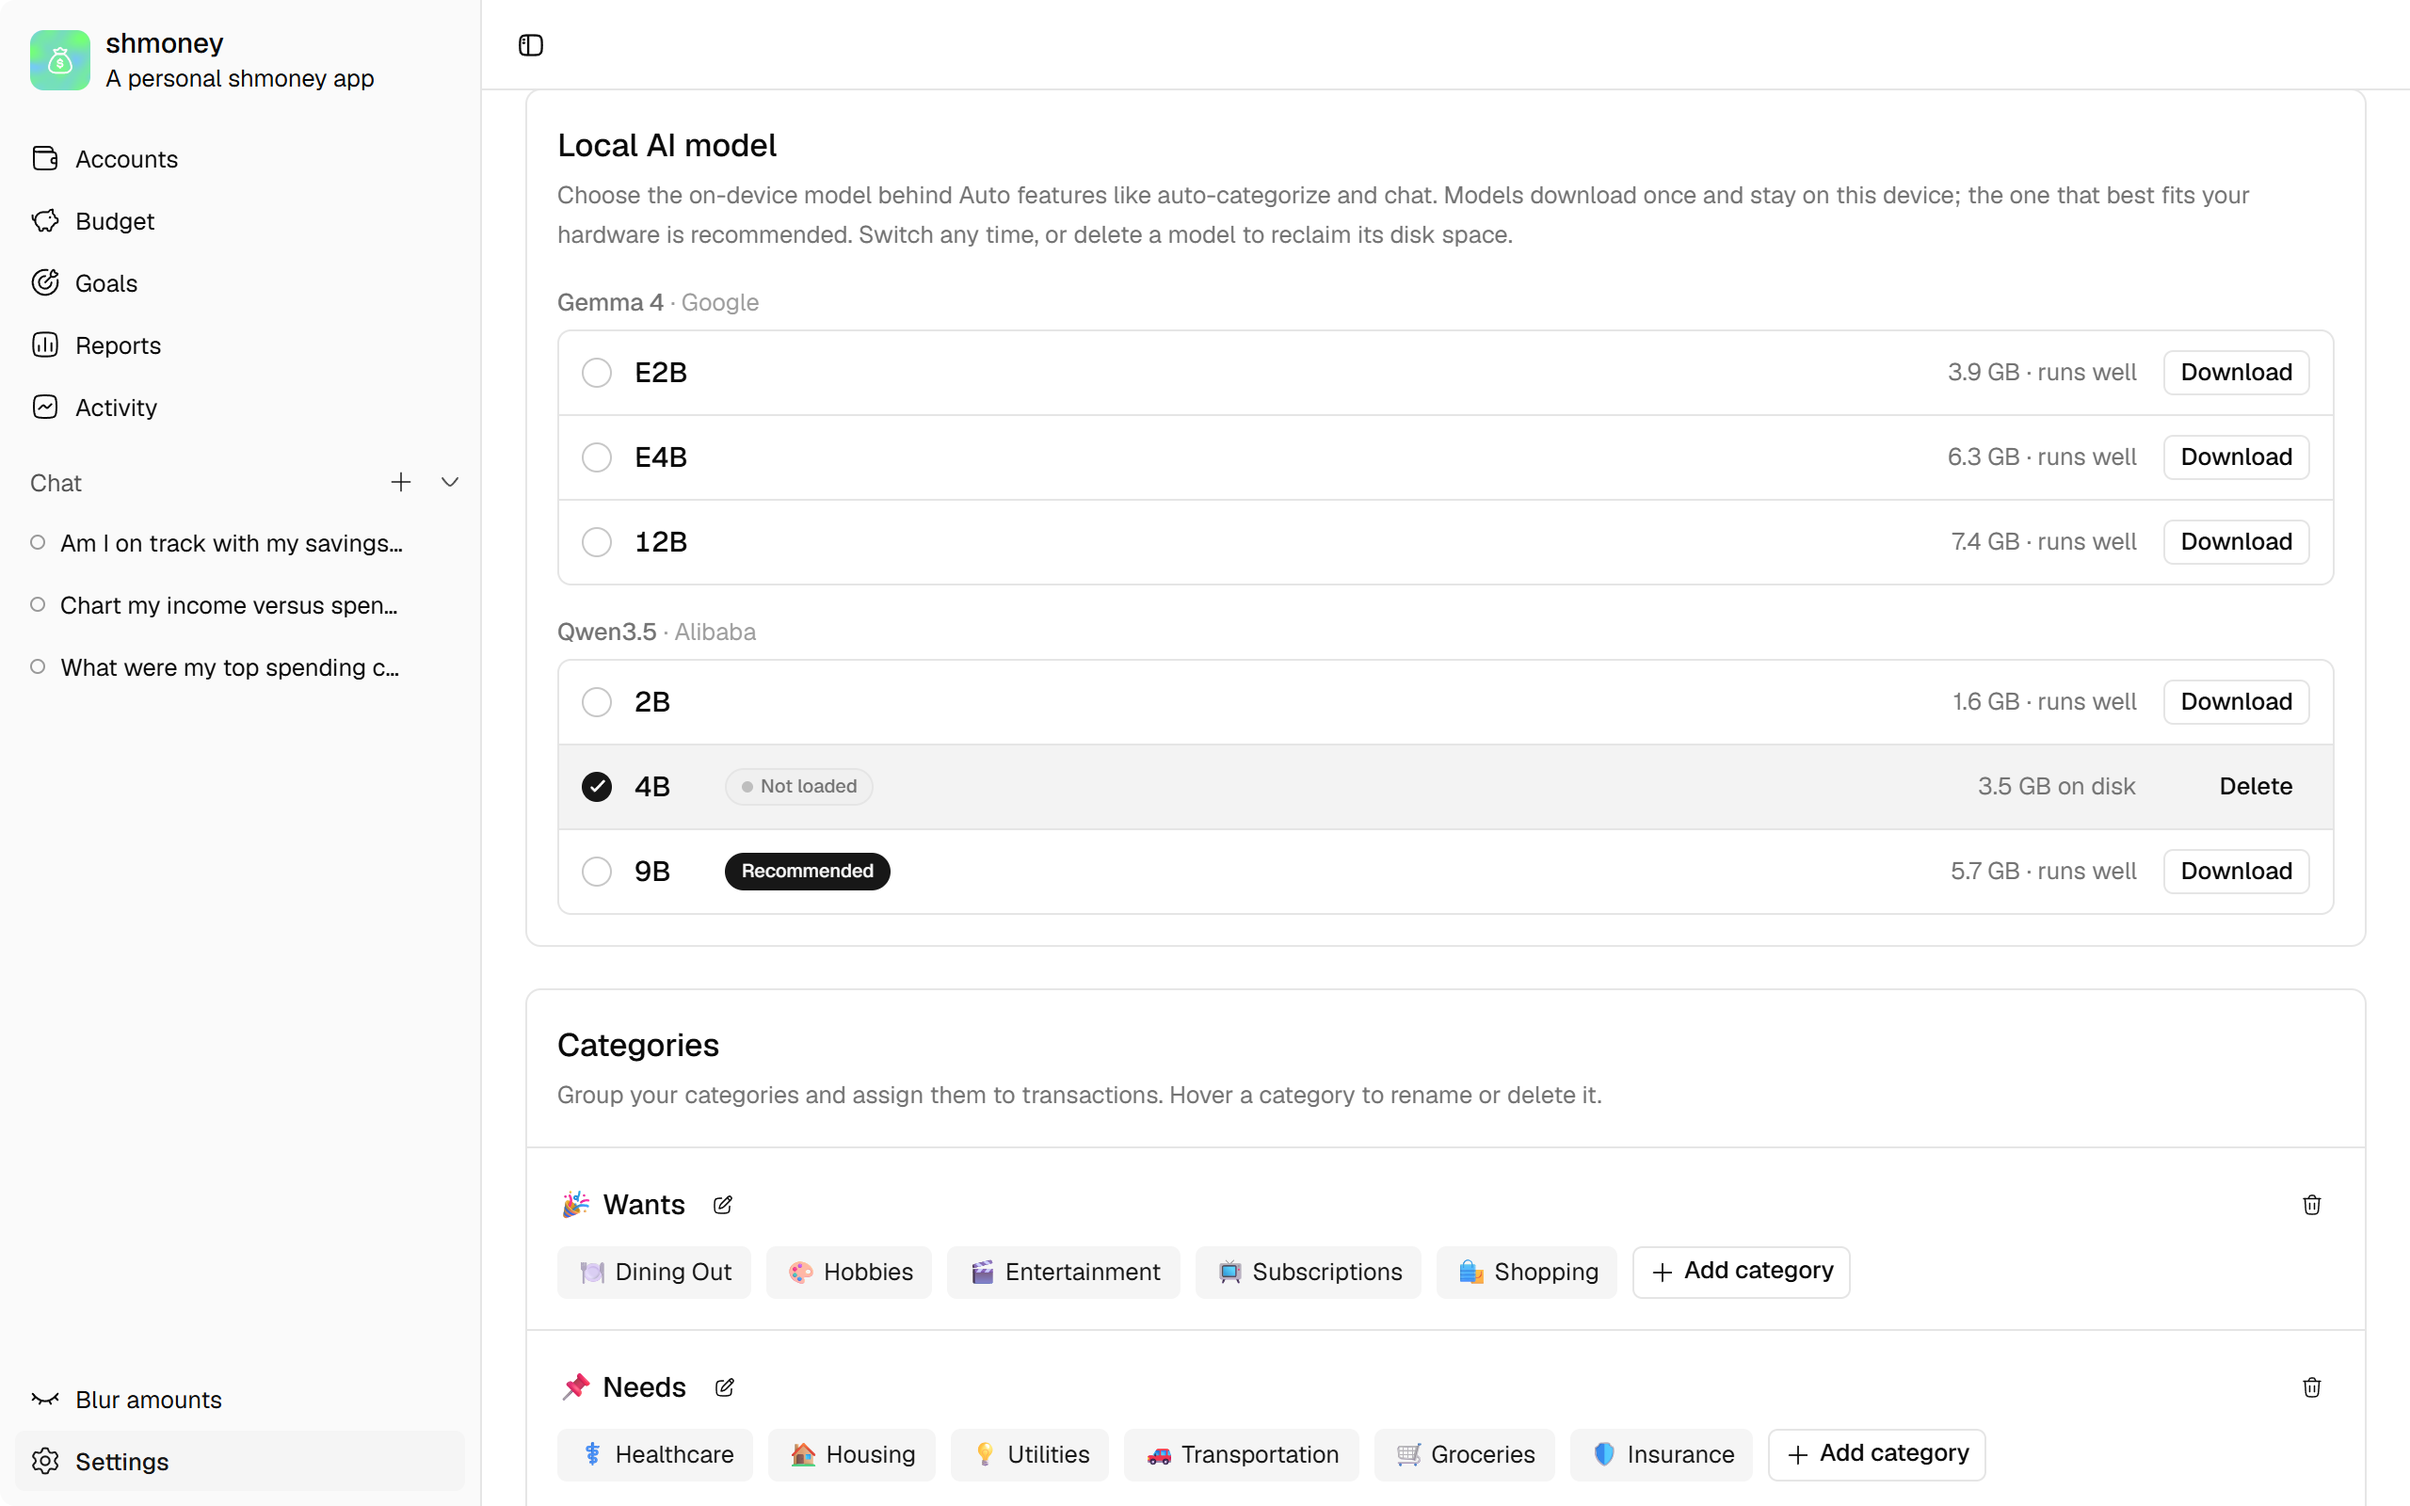
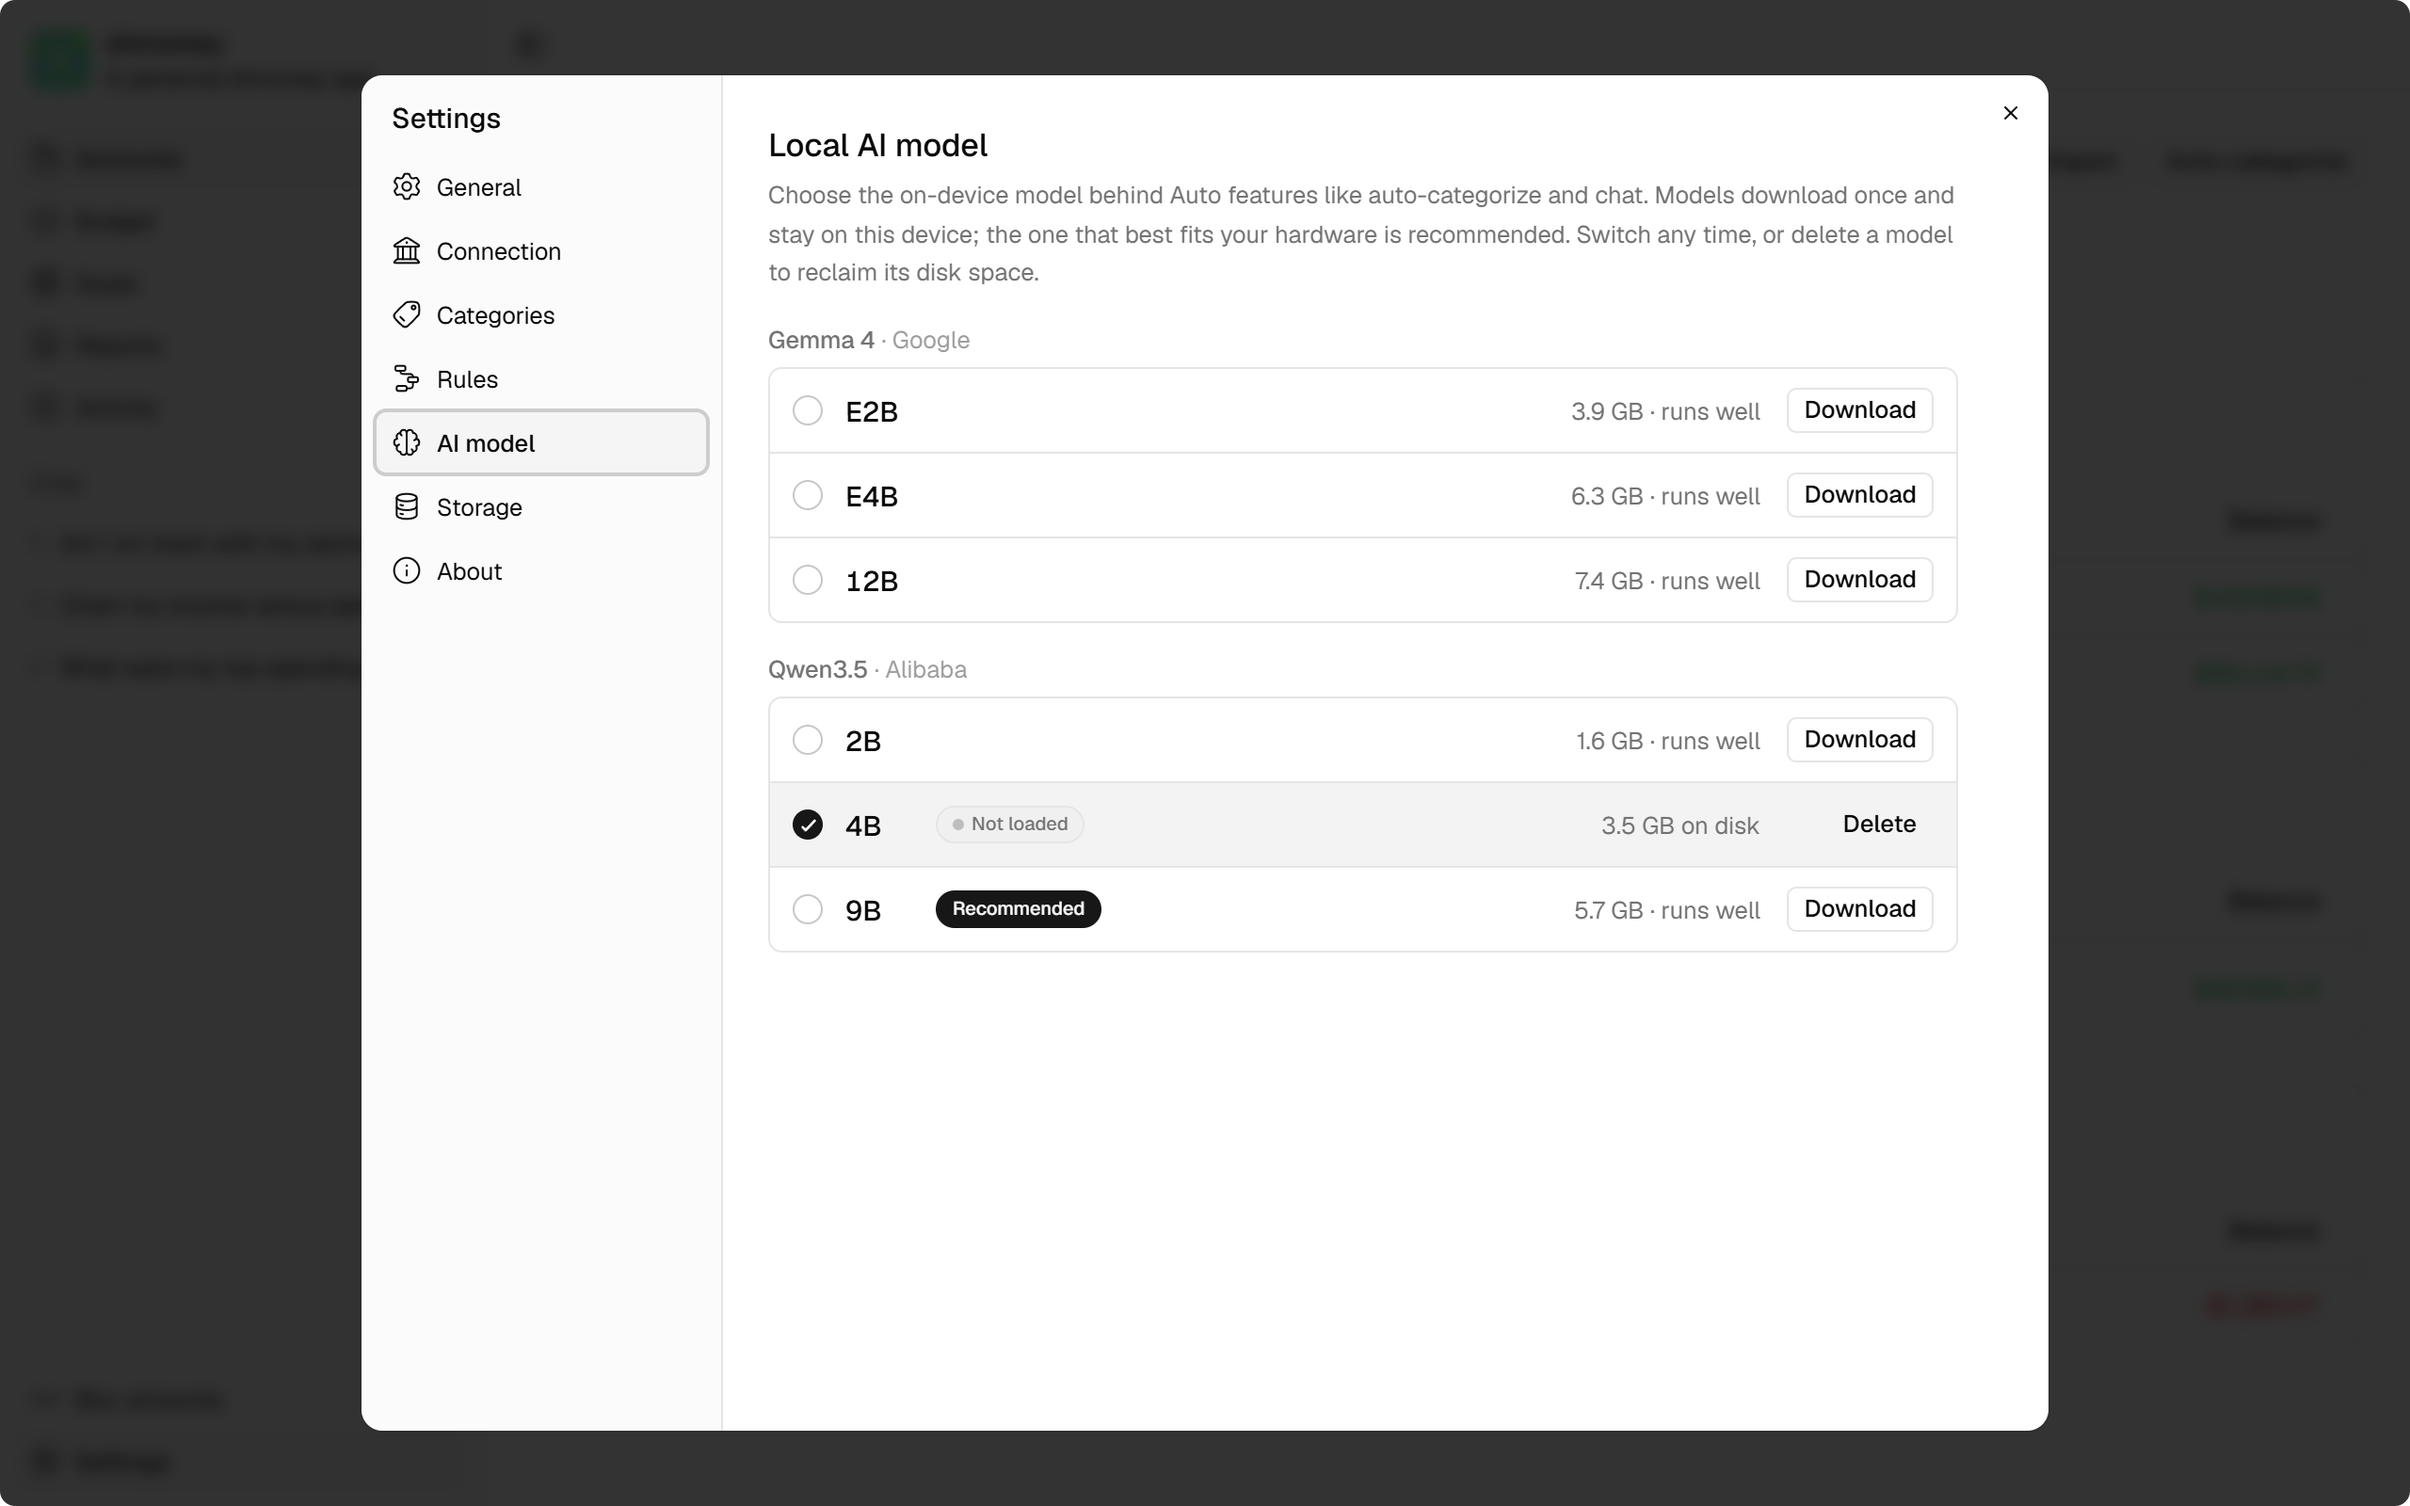
Focus the open settings section, reshoot the settings screenshot

diff --git a/src/renderer/src/components/settings/settings-dialog.tsx b/src/renderer/src/components/settings/settings-dialog.tsx
@@ -1,3 +1,4 @@
+import { useRef } from 'react'
 import { HugeiconsIcon, type IconSvgElement } from '@hugeicons/react'
 import {
   AiBrain01Icon,
@@ -72,11 +73,14 @@ export function SettingsDialog(): React.JSX.Element {
   const { section, open, close } = useSettingsDialog()
   const statuses = useSettingsSectionStatuses()
   const active = SECTIONS.find((s) => s.id === section) ?? SECTIONS[0]
+  const activeRef = useRef<HTMLButtonElement>(null)
 
   return (
     <Dialog open={section !== undefined} onOpenChange={(next) => !next && close()}>
       <DialogContent
         className="flex h-[min(720px,calc(100vh-4rem))] gap-0 overflow-hidden p-0 sm:max-w-4xl"
+        // base-ui otherwise focuses the first section, even when opened at another
+        initialFocus={activeRef}
         onKeyDown={(event) => {
           // base-ui's escape-to-close does not fire here. Escapes from nested
           // dialogs bubble through the React tree but not the DOM, and inline
@@ -98,6 +102,7 @@ export function SettingsDialog(): React.JSX.Element {
             return (
               <button
                 key={id}
+                ref={id === active.id ? activeRef : undefined}
                 type="button"
                 aria-current={id === active.id ? 'page' : undefined}
                 title={status?.tooltip}
